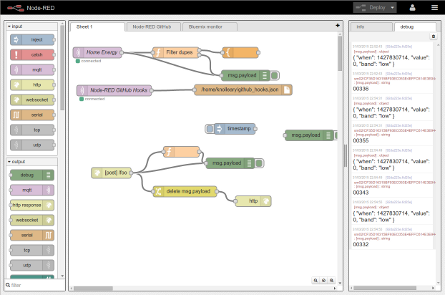
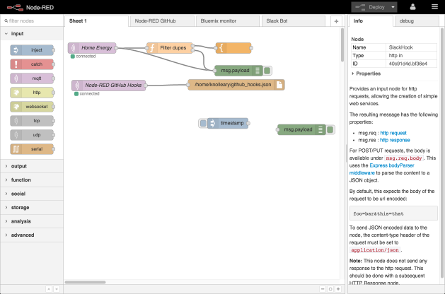
Add new screenshot and 0.12 info

Changed region(s): [[0.0, 0.0, 1.0, 1.0], [0.2045, 0.4898, 0.6135, 0.7041], [0.4382, 0.398, 0.5843, 0.4592]]

diff --git a/index.html b/index.html
@@ -19,7 +19,7 @@ layout: barebones
             <div class="content blurb" style="margin-top: 30px;">
             <p>Node-RED is a tool for wiring together hardware devices, APIs and online services in new and interesting ways.</p>
             <p><h3>Getting Started</h3></p>
-            <p>For Linux/OS X, if you already have Node.js 0.10.x installed, run:</p>
+            <p>For Linux/OS X, if you already have Node.js installed, run:</p>
             <pre style="background: #666; color: #eee; padding: 10px; border-radius:3px">
 $ sudo npm install -g node-red
 $ node-red
@@ -31,12 +31,12 @@ $ node-red
         <div class="col-1-2">
             <div class="content feature" style="margin-top: 40px;">
                 <img style="box-shadow: 10px 10px 30px #999;" src="images/node-red-screenshot-sm.png" />
-             <p>Latest version: <a href="https://www.npmjs.com/package/node-red"><span class="node-red-latest-version">v0.10.10</span> (npm)</a></p>
+             <p>Latest version: <a href="https://www.npmjs.com/package/node-red"><span class="node-red-latest-version">v0.11.0</span> (npm)</a></p>
             </div>
         </div>
     </div>
 </div>
-        
+
 <!-- Grid 1/2 -->
 <div class="features">
     <div class="grid">

diff --git a/docs/getting-started/installation.md b/docs/getting-started/installation.md
@@ -5,24 +5,26 @@ title: Installation
 
 ### Install Node.js
 
-Node-RED requires version <code>0.10.x</code> of Node.js.
+Node-RED supports Node.js <code>0.10.x</code> and <code>0.12.x</code>.
 
-<div class="doc-callout"><em>Note</em>: The most recent stable release of Node <code>0.12.x</code> is <em>not</em> currently supported.</div>
+<div class="doc-callout"><em>Note</em>: Support for Node <code>0.12.x</code> was added in Node-RED <code>0.11.0</code>.
+Whilst we have tested the core runtime and its nodes, 3rd party nodes may not yet fully support it.</div>
 
-You can get the latest supported version of Node <code>0.10.x</code> from:
+<div class="doc-callout"><em>Note</em>: We do <em>not</em> currently support io.js.</div>
 
- - Linux Binaries: [32-bit](http://nodejs.org/dist/v0.10.36/node-v0.10.36-linux-x86.tar.gz)
+You can get the latest supported version of Node <code>0.12.x</code> from:
+
+ - Linux Binaries: [32-bit](https://nodejs.org/dist/v0.12.7/node-v0.12.7-linux-x86.tar.gz)
                    or
-                   [64-bit](http://nodejs.org/dist/v0.10.36/node-v0.10.36-linux-x64.tar.gz)
- - Max OS X Installer: [Universal](http://nodejs.org/dist/v0.10.36/node-v0.10.36.pkg)
- - Windows Installer: [32-bit](http://nodejs.org/dist/v0.10.36/node-v0.10.36-x86.msi)
+                   [64-bit](http://nodejs.org/dist/v0.12.7/node-v0.12.7-linux-x64.tar.gz)
+ - Max OS X Installer: [Universal](https://nodejs.org/dist/v0.12.7/node-v0.12.7.pkg)
+ - Windows Installer: [32-bit](https://nodejs.org/dist/v0.12.7/node-v0.12.7-x86.msi)
                       or
-                      [64-bit](http://nodejs.org/dist/v0.10.36/x64/node-v0.10.36-x64.msi)
+                      [64-bit](https://nodejs.org/dist/v0.12.7/x64/node-v0.12.7-x64.msi)
 
-Other download options are available [here](http://nodejs.org/dist/v0.10.36/).
+Other download options are available [here](http://nodejs.org/dist/v0.12.7/).
 
 You may want to use a version from your operating system's [package manager](https://github.com/joyent/node/wiki/Installing-Node.js-via-package-manager).
-If you chose this option, you must ensure to get a <code>0.10.x</code> version.
 
 There are specific instructions available for certain hardware platforms:
 
@@ -78,9 +80,9 @@ Once cloned, the core pre-requisite modules must be installed :
     npm install
 
 <div class="doc-callout">
-<em>Note</em>: in anticipation of future changes, when running from a clone of the git
-repository, it is necessary to install all dependencies, not just the production
-level ones. This is why the <code>--production</code> option should not be used.
+<em>Note</em>: when running from a clone of the git repository, it is necessary
+to install all dependencies, not just the production level ones. This is why the
+ <code>--production</code> option should not be used.
 </div>
 
 You will also need to install `grunt-cli` in order to build the application before
